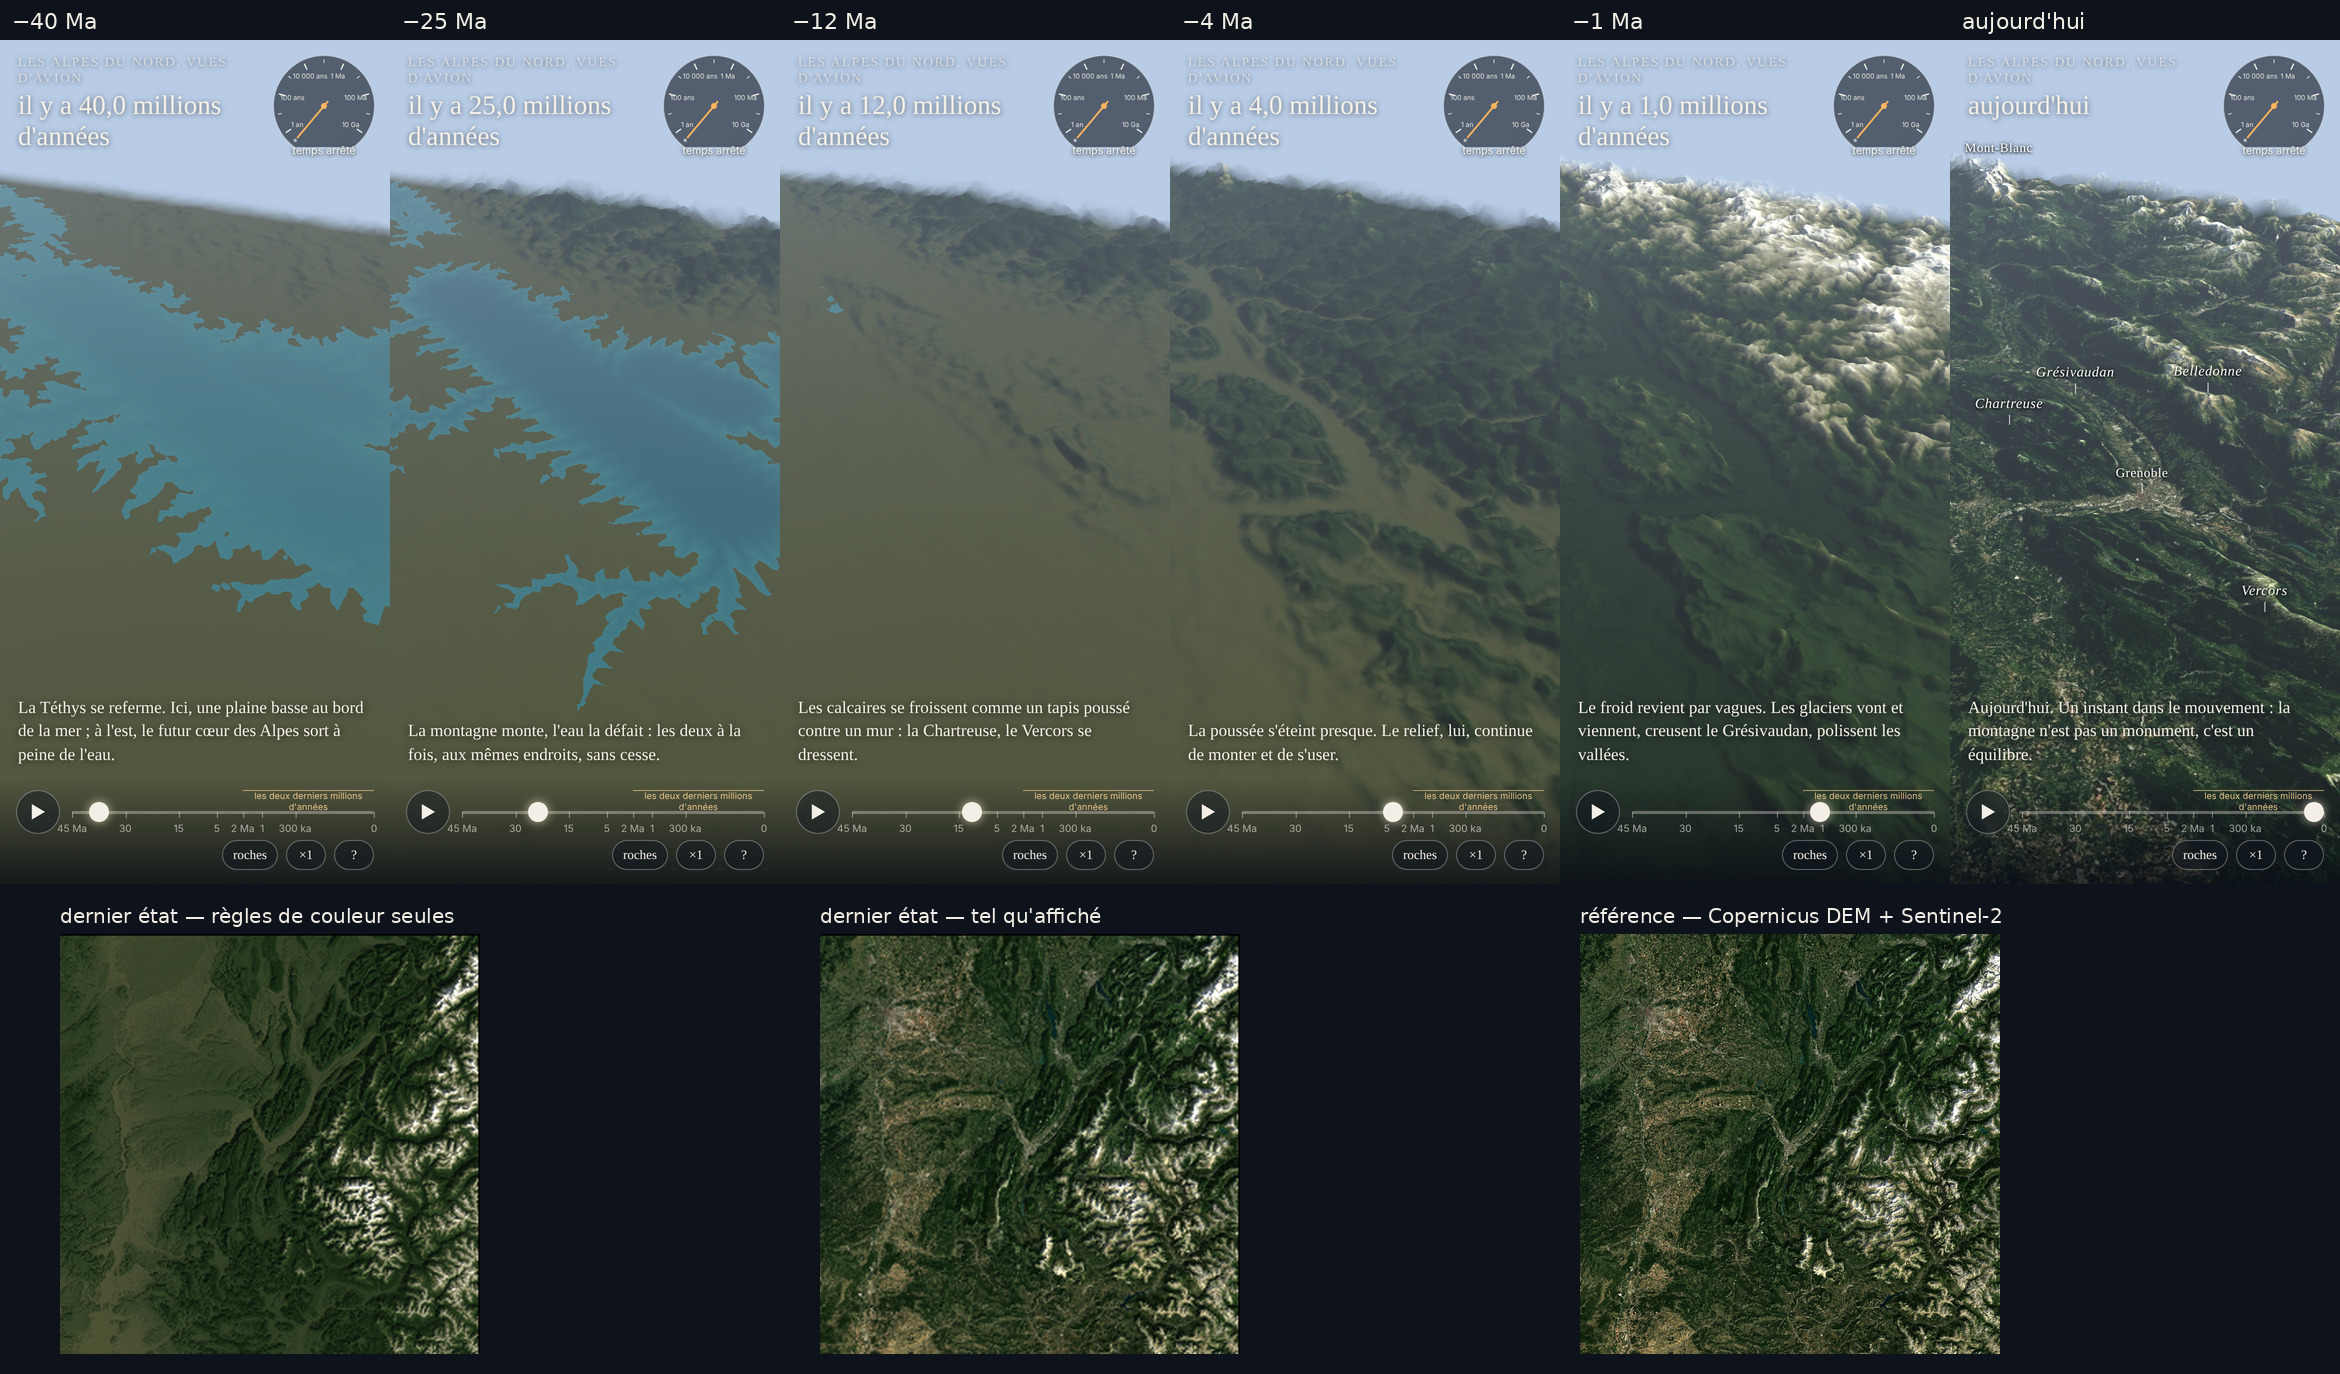
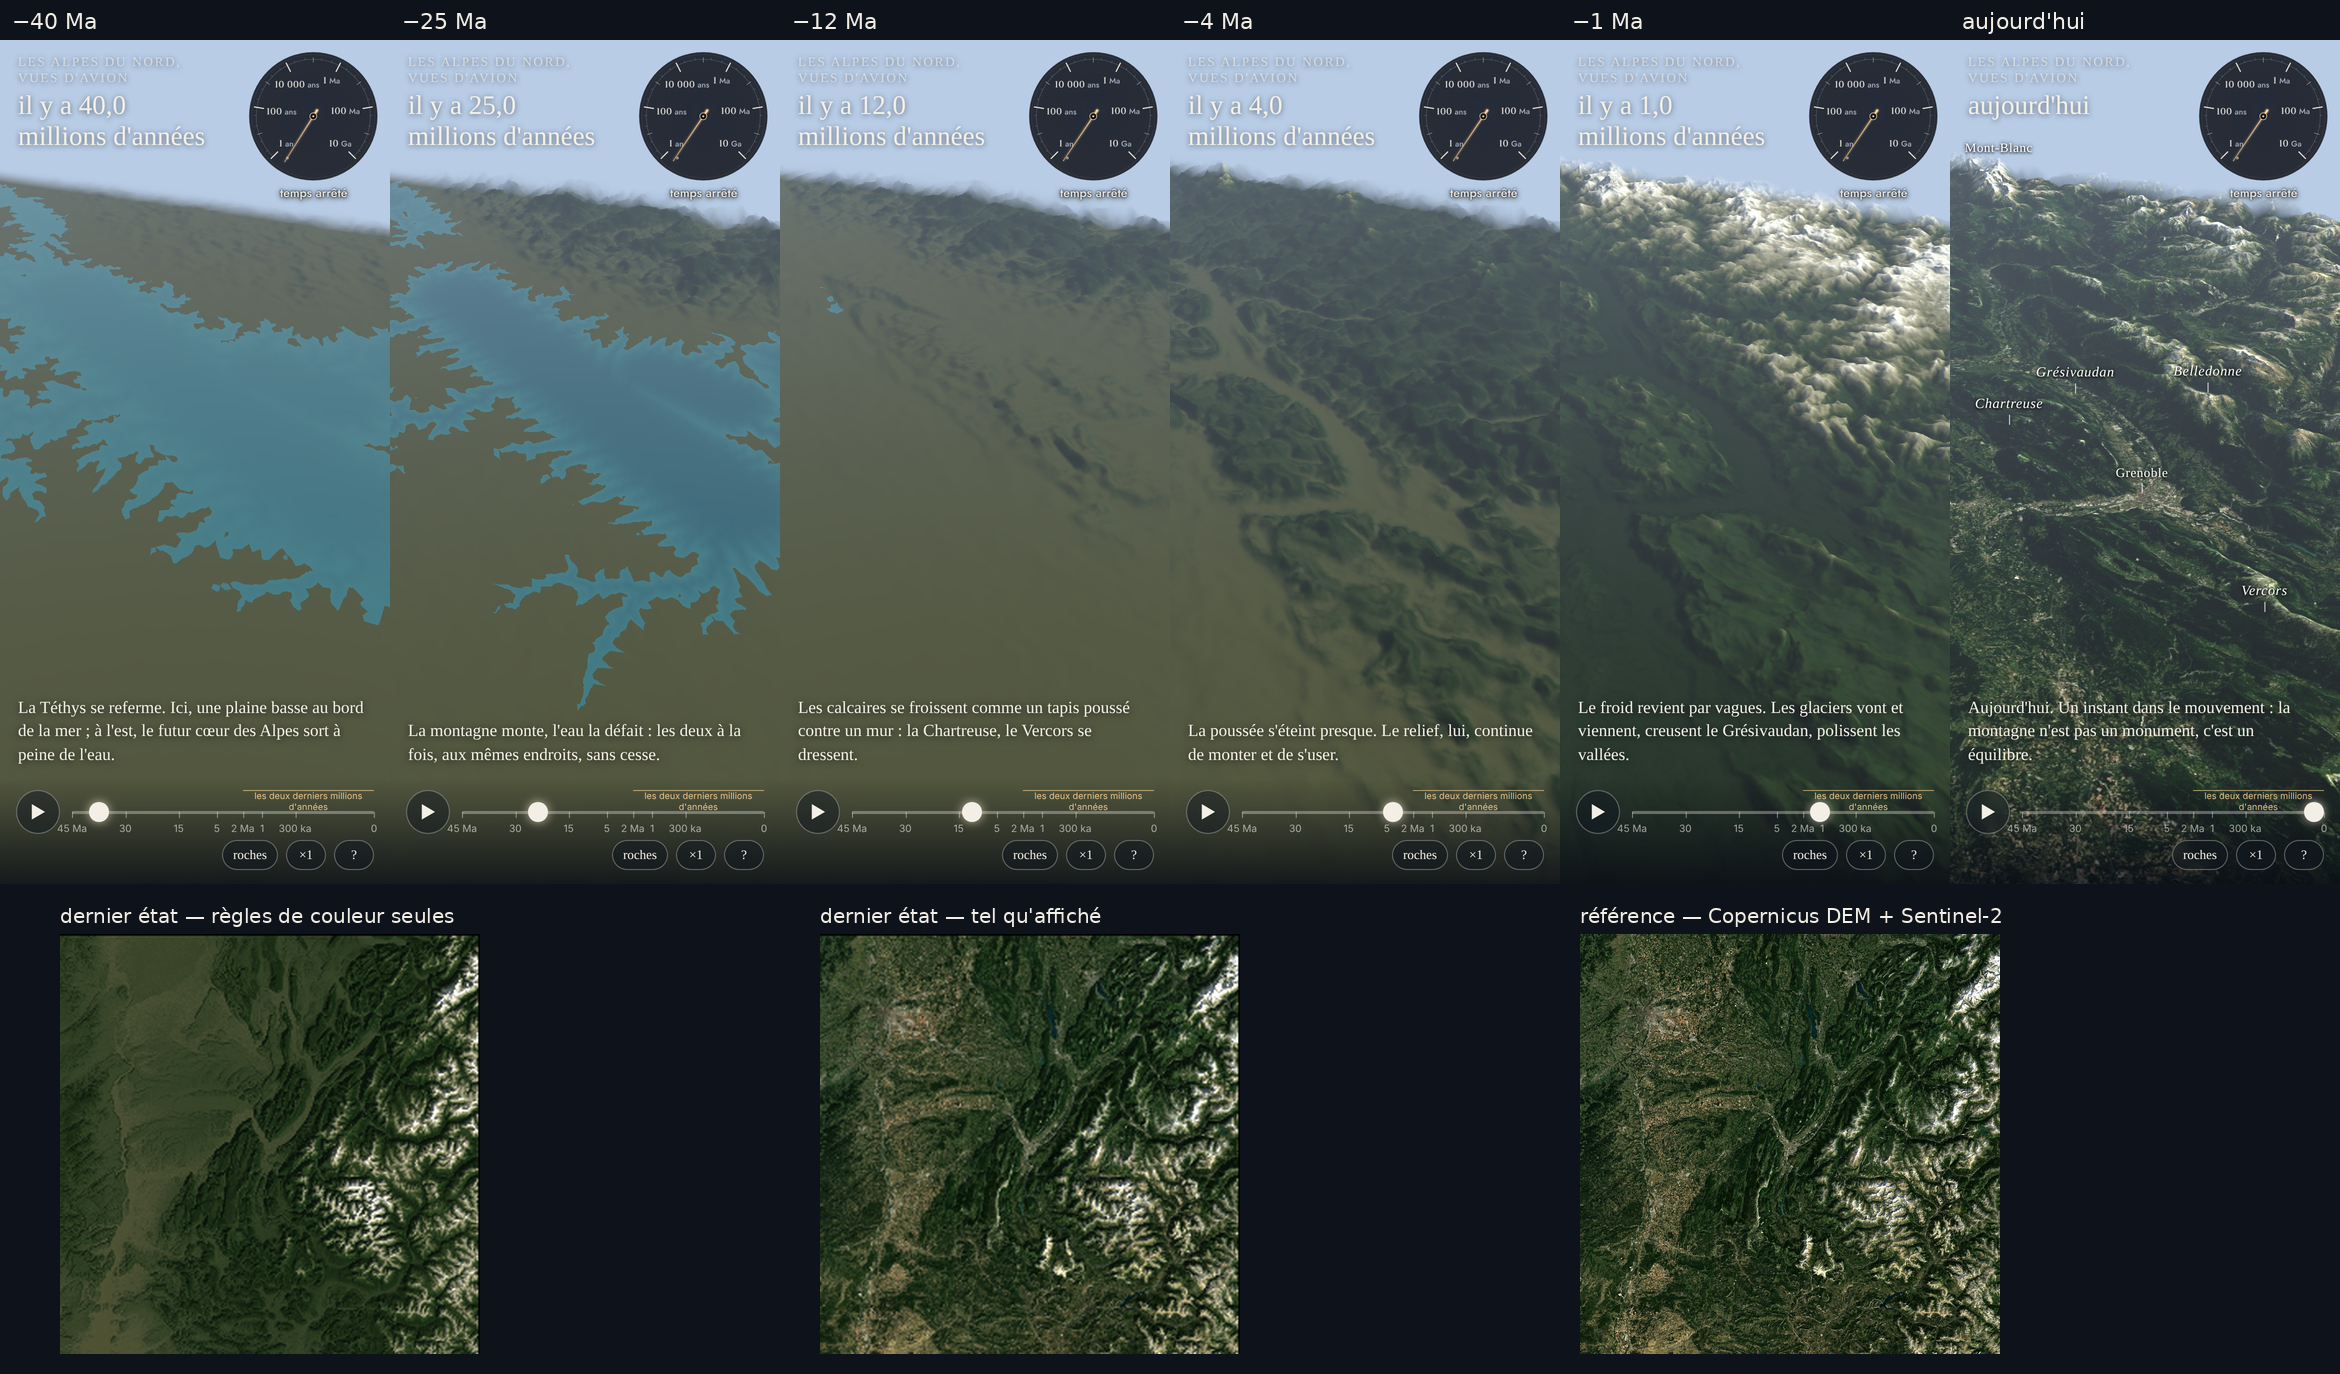
Alpes : compteur commun, contrôles 23/23, planche alpes-1, ÉTAT S7
Claude-Session: https://claude.ai/code/session_01GHjNcfsgAps6dyjbvcRuYz

Changed region(s): [[0.0, 0.0306, 0.8423, 0.1528], [0.9359, 0.0306, 0.9983, 0.1528]]

diff --git a/app/public/labo/alpes/alpes.js b/app/public/labo/alpes/alpes.js
@@ -1,7 +1,7 @@
 // L'Heure de s'enivrer — S7 : l'orogenèse alpine, vue d'avion.
 // Relief : états FastScape (donnees/), interpolés ; fin = relief réel Copernicus GLO-90
 // drapé de la mosaïque Sentinel-2 sans nuages (EOX). Unités : km au sol, m d'altitude, Ma.
-import { Compteur } from "./compteur.js";
+import { creeCompteur } from "../../commun/compteur.js";
 
 const EXAGERATION = 1.5;
 const SOLEIL_AZ = 145, SOLEIL_EL = 34;           // degrés ; Soleil fixe, celui de la mosaïque (matin d'été, vers 10 h 30)
@@ -333,7 +333,7 @@ async function demarrer() {
   const cam = { azimut: 248 * Math.PI / 180, hauteur: 37 * Math.PI / 180, distance: 118, cible: [6, 2, 0.8] };
   let t = -45, enLecture = false, allure = 1, roches = false, glisse = false;
   const CIEL = [0.72, 0.80, 0.90];
-  const compteur = new Compteur(document.body);
+  const compteur = creeCompteur(document.body, { coin: "haut-droite", marge: 10 });
 
   function indice(tt) {
     let lo = 0, hi = T.length - 1;
@@ -398,7 +398,7 @@ async function demarrer() {
     gl.clearColor(...CIEL, 1); gl.clear(gl.COLOR_BUFFER_BIT | gl.DEPTH_BUFFER_BIT);
     rendre(mvp, 0);
     const op = Math.min(Math.max((t + 1.0) / 0.8, 0), 1);
-    const rc = compteur.e.getBoundingClientRect();
+    const rc = compteur.element.getBoundingClientRect();
     for (const l of lieux) {
       const z = Math.max(hauteurEn(...l.km), 0) * EXAGERATION / 1000 + 0.15;
       const s = projeter([l.km[0], l.km[1], z]);
@@ -450,7 +450,7 @@ async function demarrer() {
     }
     // vitesse réelle du curseur (ans par seconde), lecture ou glissé
     const v = dt > 0 ? (t - tPrec) * 1e6 / dt : 0; tPrec = t;
-    compteur.regler(enLecture ? vitesseGeo(t) * allure * 1e6 : (glisse ? v : 0), dt);
+    compteur.vitesse(enLecture ? vitesseGeo(t) * allure * 1e6 : (glisse ? v : 0));
     dessiner();
     requestAnimationFrame(imageSuivante);
   }

diff --git a/app/public/labo/alpes/index.html b/app/public/labo/alpes/index.html
@@ -13,7 +13,7 @@
     font-family: "Iowan Old Style", "Palatino Linotype", Palatino, Georgia, serif;
     -webkit-user-select: none; user-select: none; touch-action: none; }
   canvas { position: fixed; inset: 0; width: 100vw; height: 100vh; height: 100dvh; display: block; }
-  #haut { position: fixed; top: 0; left: 0; right: 130px; padding: max(14px, env(safe-area-inset-top)) 18px 0;
+  #haut { position: fixed; top: 0; left: 0; right: 165px; padding: max(14px, env(safe-area-inset-top)) 18px 0;
     pointer-events: none; text-shadow: 0 1px 6px rgba(0,0,0,.55); }
   #titre { font-size: 13px; letter-spacing: .14em; text-transform: uppercase; color: var(--pale); }
   #date { font-size: 27px; margin-top: 4px; font-variant-numeric: lining-nums; }
@@ -59,7 +59,7 @@
   #apropos.ouvert { display: block; }
   #apropos p { margin-bottom: 12px; max-width: 34em; }
   #apropos small { color: var(--pale); font-size: 13px; }
-  #legende { position: fixed; right: 14px; top: calc(max(14px, env(safe-area-inset-top)) + 140px);
+  #legende { position: fixed; right: 14px; top: calc(max(14px, env(safe-area-inset-top)) + 175px);
     font-family: -apple-system, system-ui, sans-serif; font-size: 11px; color: var(--pale);
     display: none; text-shadow: 0 1px 4px rgba(0,0,0,.8); }
   #legende.vue { display: block; }

diff --git a/app/public/labo/alpes/controles.py b/app/public/labo/alpes/controles.py
@@ -122,7 +122,7 @@ def controles_donnees(base):
     ok("D3 pas réguliers ≤ 250 ka, plus serrés sur les 2 derniers Ma",
        len(avant) and avant.max() <= 0.25 + 1e-9 and len(apres) and apres.max() < avant.min(),
        f"avant {avant.max() if len(avant) else '–'} Ma, après {apres.max() if len(apres) else '–'} Ma")
-    taille = sum(int(urllib.request.urlopen(base + "donnees/" + p["fichier"]).headers["Content-Length"])
+    taille = sum(int(urllib.request.urlopen(urllib.request.Request(base + "donnees/" + p["fichier"], method="HEAD")).headers["Content-Length"])
                  for p in meta["paquets"])
     ok("D4 paquet léger (< 40 Mo)", taille < 40e6, f"{taille/1e6:.1f} Mo")
     premiere = sum(len(lire(base + "donnees/" + f)) for f in
@@ -235,7 +235,7 @@ def controles_page(base):
                     while (tb - ta < 1500) { tp = tb; bp = b; [tb, b] = await image(); }
                     const v = (b - a) / ((tb - ta) / 1000);             // vitesse moyenne
                     const vi = (b - bp) / ((tb - tp) / 1000);           // vitesse de la dernière image
-                    const ang = A.compteur.angle(); A.pause();
+                    const ang = A.compteur.etat().cible; A.pause();
                     return [v, ang, vi];
                 }""", t0)
                 mesures[t0], angles[t0], inst[t0] = v
@@ -245,21 +245,22 @@ def controles_page(base):
                " ; ".join(f"{k} Ma : {v*1000:.0f} ka/s" for k, v in mesures.items()))
 
             from math import log10
-            attendu = {k: -125 + 250 * min(max(log10(v * 1e6), 0), 10) / 10 for k, v in inst.items()}
+            attendu = {k: -135 + 270 * min(max(log10(v * 1e6), 0), 10) / 10 for k, v in inst.items()}
             ecart_ang = max(abs(angles[k] - attendu[k]) for k in mesures)
             ra = [angles[k] for k in (-1.9, -1.2, -0.6, -0.2)]
-            ok("N28 compteur : l'aiguille vaut la vitesse réelle (log, à 1° près) et redescend sur les 2 derniers Ma",
+            ok("N28 compteur : la cible de l'aiguille vaut la vitesse réelle (log, à 1° près) et redescend sur les 2 derniers Ma",
                ecart_ang <= 1.0 and all(ra[i] > ra[i + 1] for i in range(3)),
                f"écart max {ecart_ang:.2f}° ; aiguille " + ", ".join(f"{a:.1f}°" for a in ra))
             page.evaluate("window.ALPES.pause(); window.ALPES.aller(-0.5)")
-            page.wait_for_timeout(1500)
-            butee = page.evaluate("window.ALPES.compteur.angle()")
-            ok("N28 compteur : temps à l'arrêt, aiguille sur la butée", butee < -135, f"{butee:.1f}°")
+            page.wait_for_function("!window.ALPES.compteur.etat().anime", timeout=60000)   # amortissement fini
+            e = page.evaluate("window.ALPES.compteur.etat()")
+            ok("N28 compteur : temps à l'arrêt, aiguille amortie posée sur la butée (−146°)",
+               abs(e["angle"] - (-146)) <= 1 and e["sens"] == 0, f"{e['angle']:.1f}°")
 
             page.evaluate("window.ALPES.aller(0)")
             page.wait_for_timeout(600)
             geo = page.evaluate("""() => { const r = e => { const b = e.getBoundingClientRect(); return [b.left, b.top, b.right, b.bottom]; };
-                return { c: r(document.querySelector('.compteur')), bas: r(document.getElementById('bas')), date: r(document.getElementById('haut')),
+                return { c: r(window.ALPES.compteur.element), bas: r(document.getElementById('bas')), date: r(document.getElementById('haut')),
                   lieux: [...document.querySelectorAll('.lieu')].filter(e => getComputedStyle(e).opacity > 0.05).map(r) }; }""")
             inter = lambda a, b: a[0] < b[2] and b[0] < a[2] and a[1] < b[3] and b[1] < a[3]
             c = geo["c"]

diff --git a/chantiers/ETAT.md b/chantiers/ETAT.md
@@ -28,7 +28,49 @@ Départ (19/11/2026, 7 h 40) : `bake.py --check` sur `main` : 399 passés, 15 en
 Étape : lancé le 23/11 (globe de nuit autonome, HYDE 3.3, Black Marble).
 
 ## S7 — Alpes
-Étape : relief réel et simulation recalculés par workflow (19/11) ; relancé le 23/11.
+Étape : **passage 1 terminé (23/11)**, page labo `labo/alpes/` prête à publier,
+branche `chantier/alpes`. Contrôles `app/public/labo/alpes/controles.py` : **23/23 verts**
+sur la page servie (Playwright, 390 × 844). Planche : `chantiers/planches/alpes-1.png`.
+
+Ce qui marche :
+- Film de 45 Ma sur 204,8 km centrés sur Grenoble : FastScape (fastscapelib 0.3, 512² à
+  400 m dans le workflow) avec soulèvement et raccourcissement imposés par un scénario de
+  collision (`sim/scenario.py` : zones internes dès 45 Ma, massifs cristallins depuis
+  22 Ma, chaînes subalpines 14–4 Ma, bassin d'avant-pays imposé : mer priabonienne, mer
+  molassique, remplissage). Gabarit de soulèvement = inversion stationnaire du relief
+  réel. Sur les 2 derniers Ma, ajustement vers le relief réel (écart 369 m à −2 Ma,
+  0,6 m à la fin ; les 10 derniers ka sont libres). 213 états (250 ka puis 50 ka).
+- Relief réel Copernicus GLO-90 et mosaïque Sentinel-2 cloudless 2024 (EOX), téléchargés
+  par `.github/workflows/chantier-alpes.yml`. Paquet publié 9,8 Mo, 4,1 Mo avant la
+  première image (relief 16 bits sans perte, jamais en vidéo).
+- Couleurs : table couleur(altitude, pente) apprise sur la mosaïque (`sim/regles_couleurs.py`),
+  appliquée à toutes les époques avec un décalage d'altitude climatique (climat chaud
+  avant, cycles glaciaires schématiques depuis 2,6 Ma) ; la photographie Sentinel-2
+  n'apparaît qu'à l'Holocène (12 derniers ka). ΔE médian 5,7 (règles) et 0,3 (affiché)
+  avec la mosaïque. Pas de vidéo : les couleurs sont calculées en direct depuis le
+  relief, rien à télécharger ; `commun/video.js` sera utile si on ajoute une texture
+  qui change (ex. glaciers de S8).
+- Ombres portées par un Soleil fixe, celui de la mosaïque (azimut 145°, hauteur 34°),
+  calculées par état : accord 100 % avec le calcul Python. Relief exagéré 1,5×.
+- Machine à laver, première forme : profondeur d'origine des roches au jour (érosion
+  cumulée, advectée), bouton « roches ».
+- Barre de temps non linéaire : 1,2 Ma/s jusqu'à −8 Ma, puis vitesse proportionnelle à
+  l'âge (≈ 200 ka/s à −2 Ma, ≈ 20 ka/s à −0,2 Ma). Compteur commun (`commun/compteur.js`)
+  en haut à droite. Noms des massifs à la fin (Belledonne, Chartreuse, Vercors,
+  Grésivaudan, Grenoble, Écrins, Mont-Blanc).
+
+Ce qui manque / limites :
+- Avant −2 Ma, le relief est lisse (256², sans détail) ; le dépôt du bassin est imposé,
+  pas calculé ; pas de glaciers (S8) ; machine à laver sans grains suivis ni coupe.
+- Fluidité ≥ 50 images/s non mesurable ici (rendu logiciel : 3 images/s) ; les ombres
+  sont calculées une fois par état pour alléger le GPU.
+- Licence : s2cloudless 2024 est sous CC BY-NC-SA 4.0 (attribution affichée dans « ? ») ;
+  compatible avec un site non commercial. Si le maître préfère CC BY, la couche 2016 est
+  disponible (moins belle) : changer `COUCHES` dans `sim/prepare_mosaique.py`.
+
+Prochaine étape : grains de roche suivis et coupe (N17) ; relief plus fin aux temps
+anciens (détail de FastScape à 512² publié pour les derniers Ma) ; intégrer les glaciers
+de S8 dans la même vue ; mesurer la fluidité sur un vrai téléphone.
 
 ## S8 — Glaciers
 Étape : données Seguinot 2018 préparées, contrôles écrits (0/8 sur page vide) ; relancé le 23/11.
